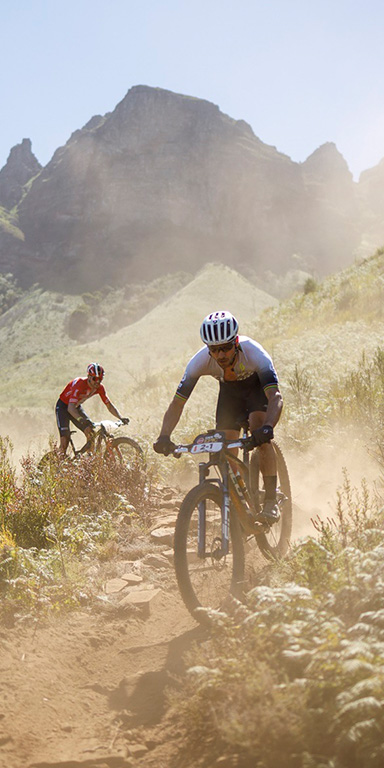
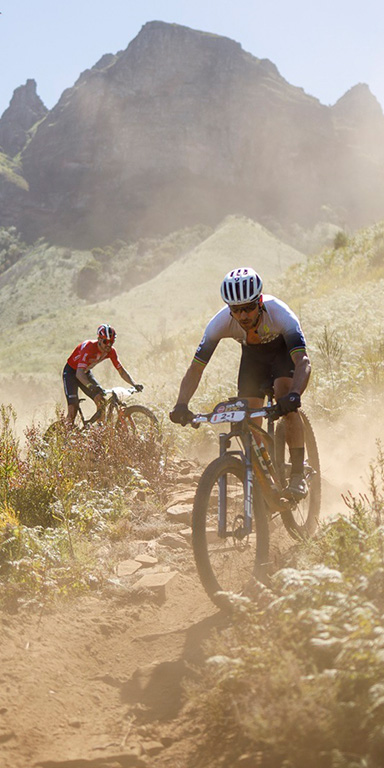
led: bottom text only

diff --git a/led/index.js b/led/index.js
@@ -1,21 +1,19 @@
 // Global einstellbar (Sekunden):
-window.EVENT_SWITCH_SECONDS = window.EVENT_SWITCH_SECONDS ?? 7;
+window.EVENT_SWITCH_SECONDS = window.EVENT_SWITCH_SECONDS ?? 8;
 
 let currentEventIndex = 0;
 let slideshowTimerId = null;
 
 const dom = {
-    textTop: null,
     textBottom: null,
     image: null
 };
 
 function cacheDom() {
-    if (!dom.textTop) dom.textTop = document.querySelector(".text-top-layers");
     if (!dom.textBottom) dom.textBottom = document.querySelector(".text-bottom-layers");
     if (!dom.image) dom.image = document.querySelector(".image");
 
-    return Boolean(dom.textTop && dom.textBottom && dom.image);
+    return Boolean(dom.textBottom && dom.image);
 }
 
 function getEventById(eventId) {
@@ -60,21 +58,17 @@ function renderTextLayers() {
         return;
     }
 
-    renderLayers(dom.textTop, events, "event-text-layer", (layer, event) => {
+    renderLayers(dom.textBottom, events, "event-text-layer", (layer, event) => {
         const el1 = document.createElement("p");
-        el1.className = "top1";
-        el1.innerHTML = event.top1 ?? event.top ?? "";
+        el1.className = "text1";
+        el1.innerHTML = event.text1 ?? event.top1 ?? event.top ?? "";
 
         const el2 = document.createElement("p");
-        el2.className = "top2";
-        el2.innerHTML = event.tzop2 ?? event.top2 ?? "";
+        el2.className = "text2";
+        el2.innerHTML = event.text2 ?? event.tzop2 ?? event.top2 ?? "";
 
         layer.appendChild(el1);
         layer.appendChild(el2);
-    });
-
-    renderLayers(dom.textBottom, events, "event-text-layer", (layer, event) => {
-        layer.innerHTML = event.bottom;
     });
 }
 
@@ -99,7 +93,6 @@ function showTextLayer(eventIndex) {
         return;
     }
 
-    setVisibleLayer(dom.textTop, "event-text-layer", eventIndex);
     setVisibleLayer(dom.textBottom, "event-text-layer", eventIndex);
 }
 

diff --git a/led/events.js b/led/events.js
@@ -1,33 +1,33 @@
 const events = [
     {
         id: "london",    
-        top1: "London Marathon",
-        top2: "2026",
-        bottom: "1:59:30<br>New world record by Sebastian Sawe."
+        text1: "London Marathon 2026",
+        text2: "1:59:30 – World Record",        
+    },
+    {
+        id: "vancouver",       
+        text1: "Vancouver Sun Run",
+        text2: "57,000 runners",
+        
     },
     {
         id: "capeepic",       
-        top: "Cape Epic MTB Race",
-        top2: "South Africa",
-        bottom: "The world's most famous MTB stage race with 8 days of racing and 700&nbsp;km in distance."
-    },
-        {
-        id: "marbella",       
-        top: "Ironman 70.3",
-        top2: "World Championship Marbella",
-        bottom: "A dramatic finish sprint saw Jelle Geens claim victory over Kristian Blummenfelt."
-    }    ,
+        text1: "Cape Epic ",
+        text2: "Worlds's most famous stage race",        
+    },       
+
+    /*
     {
-        id: "vancouver",       
-        top: "Vancouver Sun Run",
-        top2: "57,000 runners",
-        bottom: "Canada's largest road race and one of the largest 10K races in the world."
+        id: "marbella",       
+        text1: "Ironman 70.3",
+        text2: "World Championship Marbella",        
     },
-        {
+    {
         id: "erzberg",       
-        top: "Erzberg Rodeo",
-        top2: "Austria",
-        bottom: "A relentless fight against steep climbs and loose terrain where simply finishing is the real victory."
+        text1: "Erzberg Rodeo",        
+        text2: "Toughest enduro race worldwide",       
     }
+
     // Weitere Events können hier hinzugefügt werden
+    */
 ];

diff --git a/led/index.css b/led/index.css
@@ -19,28 +19,22 @@
         position:relative;    
         
     }
-    .event .text-top {
-        position: absolute;
-        top: 0;
-        width: 100%;
-        height: 80px;
-        background-color: rgba(191, 7, 7, 0.7);
-        padding-bottom: 36px;
-        clip-path: polygon(0 0, 100% 0, 100% calc(100% - 20px), 0% 100%);
-        z-index: 1;
-        backdrop-filter: blur(4px);
-    }
     .event .text-top .text-layers,
     .event .text-bottom .text-layers {
         position: relative;
         width: 100%;
         height: 100%;
     }
-    .event .text-top .event-text-layer p {
+    .event .text-bottom p {
         margin:0;
+        font-size:30px;
     }
-        .event .text-top .event-text-layer p.top2 {
+     .text-bottom-layers p.text1 {
+        margin-bottom: 5px;
+     }
+    .text-bottom-layers p.text2 {
        font-size:20px;
+       
     }
 
     .event .text-top .event-text-layer {
@@ -52,7 +46,7 @@
         font-weight: 400;
         line-height: 36px;
     }
-    .event .text-top .event-text-layer.top2 {
+    p.text2 {
         font-size: 22px;
         font-weight: 300;
         line-height: 28px;
@@ -62,7 +56,7 @@
         position: absolute;
         bottom: 0;
         width: 100%;
-        height: 130px;
+        height: 110px;
         background-color: rgba(191, 7, 7, 0.7);
         padding-top:24px;            
         clip-path: polygon(0 20px, 100% 0, 100% 100%, 0% 100%);
@@ -73,7 +67,7 @@
         margin:0;
         padding-left: 30px;
         padding-right:30px;
-        padding-top:15px;
+        padding-top:20px;
         font-size:20px;
     }
 

diff --git a/led/index.html b/led/index.html
@@ -8,18 +8,16 @@
 </head>
 <body>
     <div>
-        <div class="event">            
-            <div class="text-top">
-                <div class="text-layers text-top-layers">
-                    <p class="top1"></p>
-                    <p class="top2"></p>
-                </div>                
-            </div>
+        <div class="event">           
+           
             <div class="image">
                 
             </div>
             <div class="text-bottom">
-                <div class="text-layers text-bottom-layers"></div>           
+                <div class="text-layers text-bottom-layers">
+                     <p class="text1"></p>
+                    <p class="text2"></p>
+                </div>           
             </div>
         </div>
     </div>
